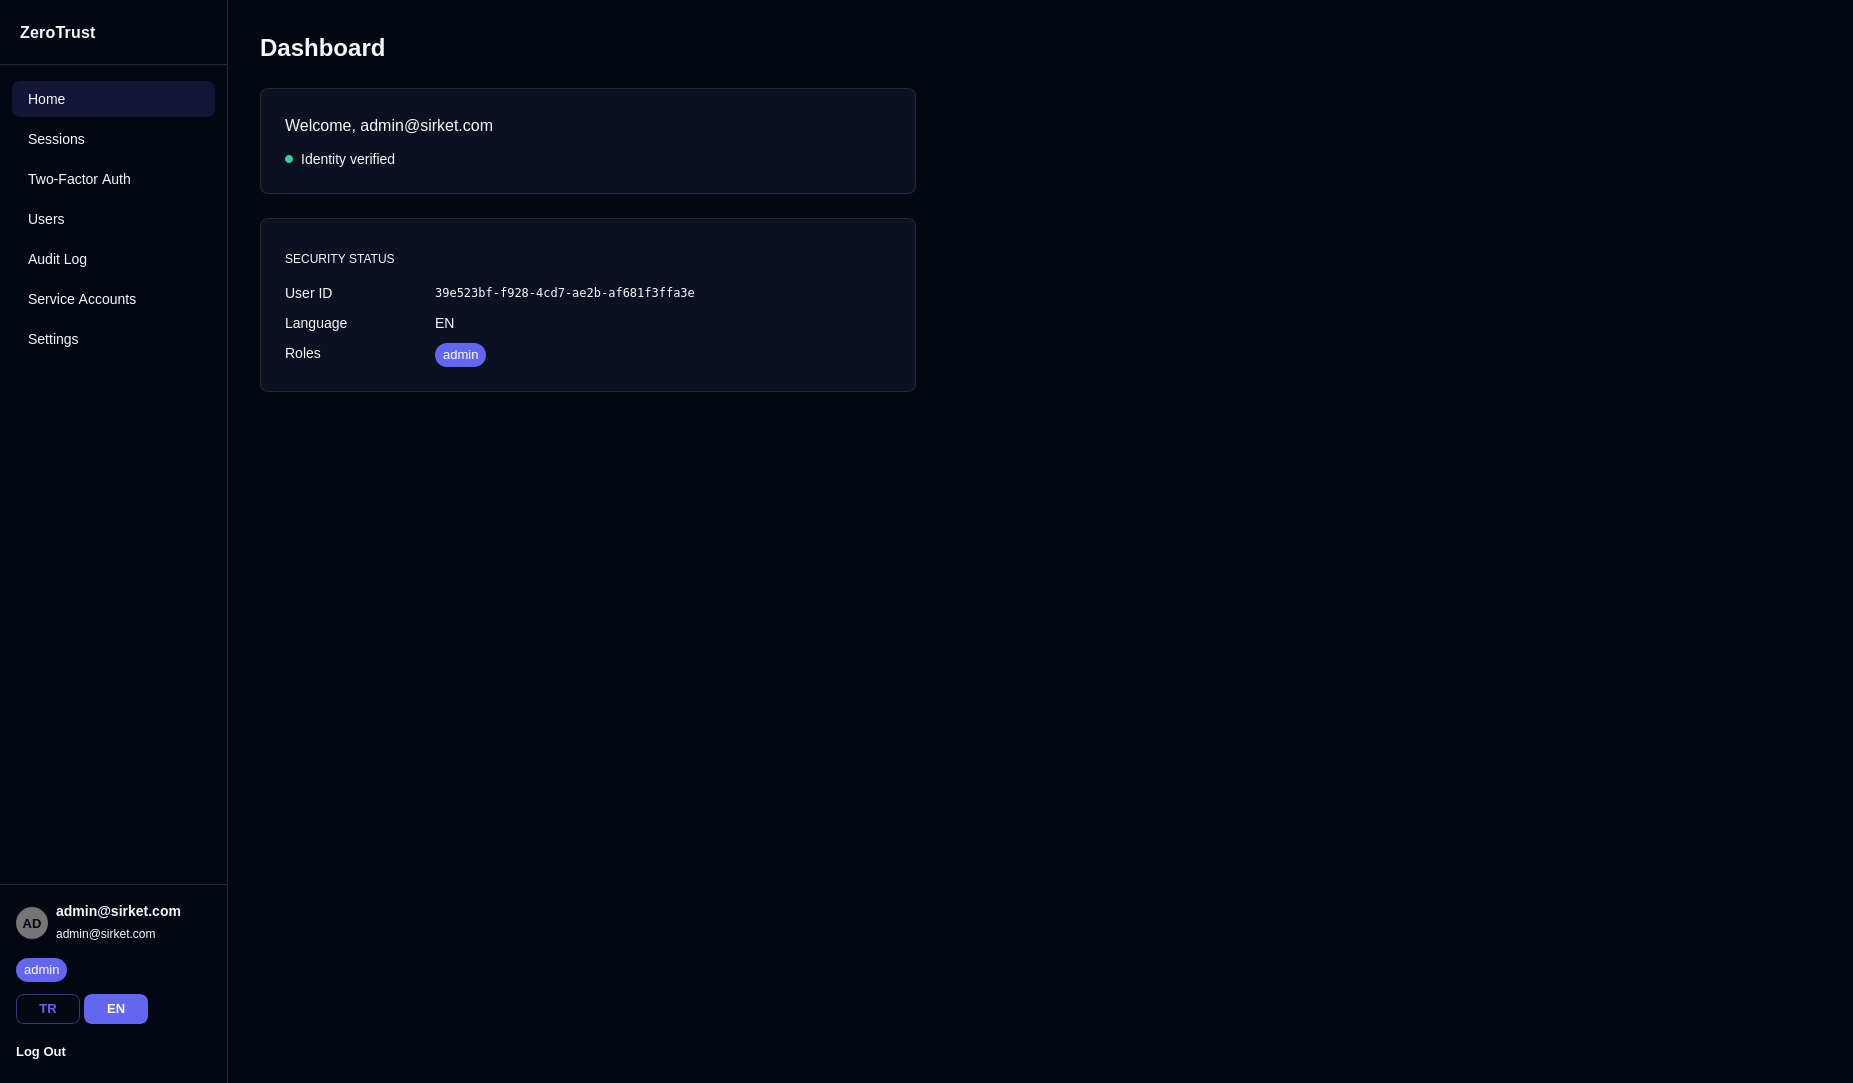
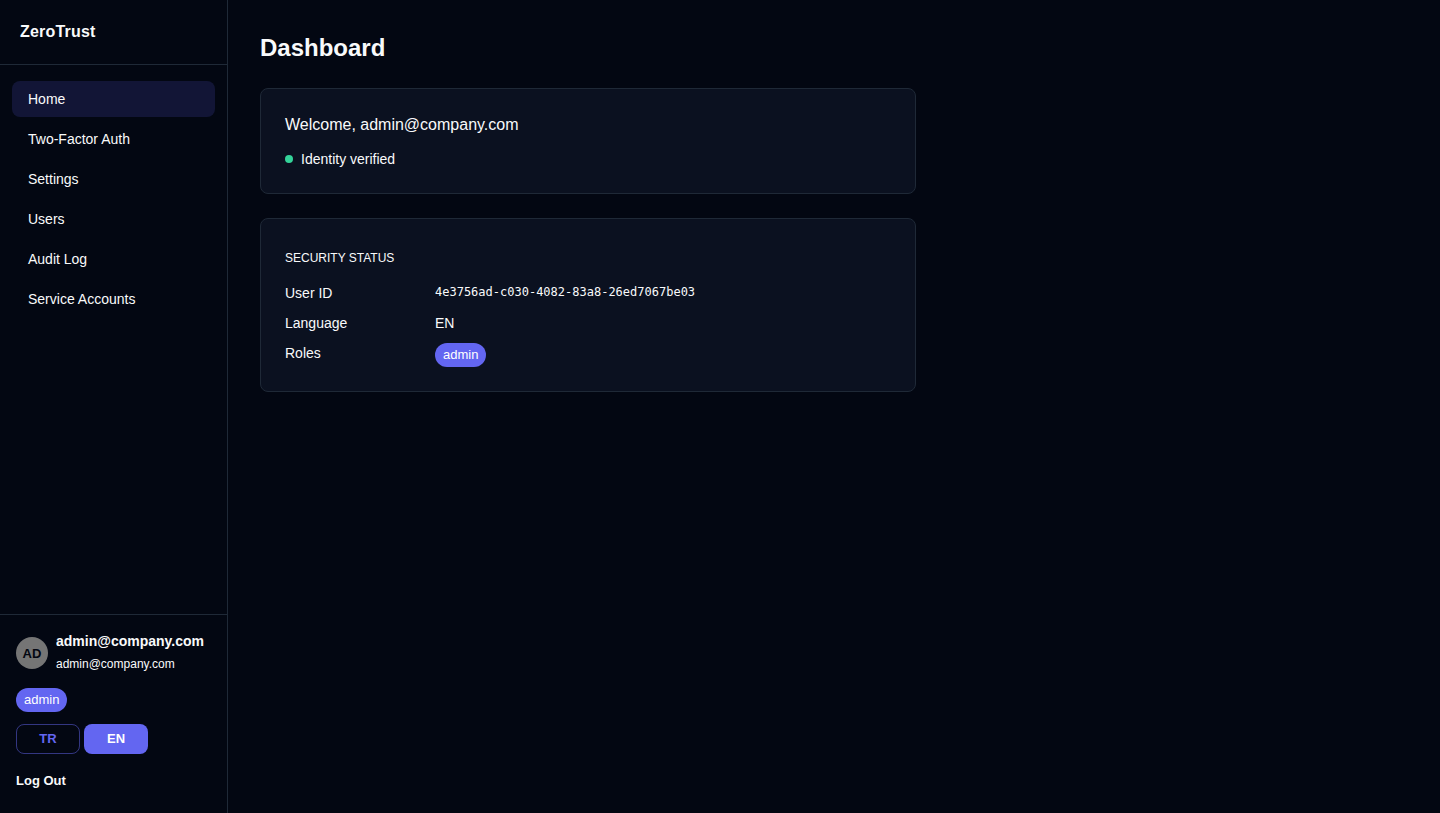
feat(docs): update README and index.html with new session policy details and showcase images

diff --git a/docs/index.html b/docs/index.html
@@ -161,8 +161,10 @@
     .showcase-img-wrapper img {
       width: 100%;
       height: 100%;
-      object-fit: cover;
+      object-fit: contain;
       display: block;
+      padding: 1.5rem;
+      filter: drop-shadow(0 10px 25px rgba(0, 0, 0, 0.5));
       transition: transform 0.5s ease;
     }
 
@@ -365,6 +367,76 @@
               <span class="tech-tag">Step-Up MFA</span>
               <span class="tech-tag">Recovery Codes</span>
               <span class="tech-tag">TOTP Verification</span>
+            </div>
+          </div>
+        </div>
+
+        <!-- Showcase 4 -->
+        <div class="showcase-card">
+          <div class="showcase-img-wrapper">
+            <img src="images/session_management.png" alt="Global System Security Settings">
+          </div>
+          <div class="showcase-content">
+            <h3>Global System Security Settings</h3>
+            <p>Administrator-level dashboard to configure critical security policies dynamically. Exposes control inputs (secured via Step-Up MFA verification) for the following platform policies:</p>
+            
+            <div class="settings-grid" style="display: grid; gap: 0.75rem; margin: 1.5rem 0;">
+              <!-- Item 1 -->
+              <div style="background: rgba(255, 255, 255, 0.02); border: 1px solid rgba(255, 255, 255, 0.05); padding: 0.75rem 1rem; border-radius: 8px;">
+                <div style="display: flex; justify-content: space-between; align-items: center; margin-bottom: 0.25rem;">
+                  <strong style="color: #ffffff; font-size: 0.95rem;">Max Concurrent Sessions</strong>
+                  <span class="tech-tag" style="border-color: rgba(6, 182, 212, 0.3); color: var(--accent-cyan); font-size: 0.75rem; padding: 0.1rem 0.5rem;">max_sessions_per_user</span>
+                </div>
+                <div style="color: var(--text-muted); font-size: 0.85rem;">Cap on active sessions allowed per account (1–20, default: 5). Evicts oldest sessions first.</div>
+              </div>
+              <!-- Item 2 -->
+              <div style="background: rgba(255, 255, 255, 0.02); border: 1px solid rgba(255, 255, 255, 0.05); padding: 0.75rem 1rem; border-radius: 8px;">
+                <div style="display: flex; justify-content: space-between; align-items: center; margin-bottom: 0.25rem;">
+                  <strong style="color: #ffffff; font-size: 0.95rem;">Password Complexity Level</strong>
+                  <span class="tech-tag" style="border-color: rgba(6, 182, 212, 0.3); color: var(--accent-cyan); font-size: 0.75rem; padding: 0.1rem 0.5rem;">password_complexity</span>
+                </div>
+                <div style="color: var(--text-muted); font-size: 0.85rem;">Enforce <strong>Low</strong> (min 6 chars), <strong>Medium</strong> (min 8, letter/digit), or <strong>Strong</strong> (min 8, mixed case/digit/symbol) policies.</div>
+              </div>
+              <!-- Item 3 -->
+              <div style="background: rgba(255, 255, 255, 0.02); border: 1px solid rgba(255, 255, 255, 0.05); padding: 0.75rem 1rem; border-radius: 8px;">
+                <div style="display: flex; justify-content: space-between; align-items: center; margin-bottom: 0.25rem;">
+                  <strong style="color: #ffffff; font-size: 0.95rem;">Max Login Attempts</strong>
+                  <span class="tech-tag" style="border-color: rgba(6, 182, 212, 0.3); color: var(--accent-cyan); font-size: 0.75rem; padding: 0.1rem 0.5rem;">max_login_attempts</span>
+                </div>
+                <div style="color: var(--text-muted); font-size: 0.85rem;">Lockout threshold (1–20, default: 5). Failures trigger progressive 1/5/30-minute lockouts.</div>
+              </div>
+              <!-- Item 4 -->
+              <div style="background: rgba(255, 255, 255, 0.02); border: 1px solid rgba(255, 255, 255, 0.05); padding: 0.75rem 1rem; border-radius: 8px;">
+                <div style="display: flex; justify-content: space-between; align-items: center; margin-bottom: 0.25rem;">
+                  <strong style="color: #ffffff; font-size: 0.95rem;">Global Two-Factor Auth (2FA)</strong>
+                  <span class="tech-tag" style="border-color: rgba(6, 182, 212, 0.3); color: var(--accent-cyan); font-size: 0.75rem; padding: 0.1rem 0.5rem;">global_mfa_required</span>
+                </div>
+                <div style="color: var(--text-muted); font-size: 0.85rem;">Enforce MFA setup and challenge verification globally for all active logins.</div>
+              </div>
+              <!-- Item 5 -->
+              <div style="background: rgba(255, 255, 255, 0.02); border: 1px solid rgba(255, 255, 255, 0.05); padding: 0.75rem 1rem; border-radius: 8px;">
+                <div style="display: flex; justify-content: space-between; align-items: center; margin-bottom: 0.25rem;">
+                  <strong style="color: #ffffff; font-size: 0.95rem;">Session Idle Timeouts</strong>
+                  <span class="tech-tag" style="border-color: rgba(6, 182, 212, 0.3); color: var(--accent-cyan); font-size: 0.75rem; padding: 0.1rem 0.5rem;">session_idle_timeout_seconds</span>
+                </div>
+                <div style="color: var(--text-muted); font-size: 0.85rem;">Inactivity windows. User range 60–3600s (default: 300s); Admin range 60–1800s (default: 180s).</div>
+              </div>
+              <!-- Item 6 -->
+              <div style="background: rgba(255, 255, 255, 0.02); border: 1px solid rgba(255, 255, 255, 0.05); padding: 0.75rem 1rem; border-radius: 8px;">
+                <div style="display: flex; justify-content: space-between; align-items: center; margin-bottom: 0.25rem;">
+                  <strong style="color: #ffffff; font-size: 0.95rem;">Absolute Session Timeout</strong>
+                  <span class="tech-tag" style="border-color: rgba(6, 182, 212, 0.3); color: var(--accent-cyan); font-size: 0.75rem; padding: 0.1rem 0.5rem;">session_absolute_timeout_seconds</span>
+                </div>
+                <div style="color: var(--text-muted); font-size: 0.85rem;">Hard cap on overall session duration. Range 1800–172800s (default: 28800s / 8 hours).</div>
+              </div>
+            </div>
+
+            <div class="tech-list">
+              <span class="tech-tag">Dynamic Policies</span>
+              <span class="tech-tag">MFA Step-Up Gate</span>
+              <span class="tech-tag">Session Timeouts</span>
+              <span class="tech-tag">Lockout Thresholds</span>
+              <span class="tech-tag">Complexity Rules</span>
             </div>
           </div>
         </div>

diff --git a/README.md b/README.md
@@ -241,14 +241,18 @@ Authentication is built on secure, token-based session cookies:
 - **Refresh Token**: A cryptographically random opaque string stored as a SHA-256 hash in PostgreSQL. It is exchanged periodically via `/api/v1/auth/refresh` to rotate both access and refresh tokens.
 - **CSRF Protection**: Critical mutation endpoints enforce the double-submit cookie pattern. The backend issues a `csrf_token` cookie, which the frontend must send back in the `X-CSRF-Token` header.
 
-### 2. Runtime Session Policy (System Settings)
-Session limits are fetched and cached dynamically from the `system_settings` table. 
+### 2. Runtime Session Policy & System Settings
+Security policies and session limits are fetched and cached dynamically from the `system_settings` table.
 
-| Setting Key | Default | Description |
-|---|---:|---|
-| `session_idle_timeout_seconds` | `300` | Inactivity window (5 minutes) for regular users. Refreshing is blocked if the session has been idle longer than this window. |
-| `session_idle_timeout_seconds_admin` | `180` | Stricter inactivity window (3 minutes) for administrators. |
-| `session_absolute_timeout_seconds` | `28800` | Hard cap on session duration (8 hours). Once reached, token rotation fails and the user is forced to re-authenticate regardless of active usage. |
+| Setting Key | Default | Validation / Values | Description |
+|---|---:|---|---|
+| `max_sessions_per_user` | `5` | `1` to `20` | Cap on the number of concurrent active sessions allowed per user account. |
+| `password_complexity` | `low` | `low` / `medium` / `strong` | Rules for new user passwords (low: min 6 chars; medium: min 8 + letter/digit; strong: min 8 + mixed case/digit/symbol). |
+| `max_login_attempts` | `5` | `1` to `20` | Limit of consecutive failed attempts before triggering progressive temporary lockout. |
+| `global_mfa_required` | `false` | `true` / `false` | Force all accounts to complete TOTP setup and verification upon sign-in. |
+| `session_idle_timeout_seconds` | `300` | `60` to `3600` (seconds) | Inactivity timeout window (default 5 minutes) for regular users. |
+| `session_idle_timeout_seconds_admin` | `180` | `60` to `1800` (seconds) | Stricter inactivity timeout window (default 3 minutes) for administrators. |
+| `session_absolute_timeout_seconds` | `28800` | `1800` to `172800` (seconds) | Hard cap on session lifetime (default 8 hours), forcing re-authentication once reached. |
 
 - Access token TTL is strictly locked to 1 minute.
 - Idle timeouts prevent inactive devices from maintaining prolonged sessions.
